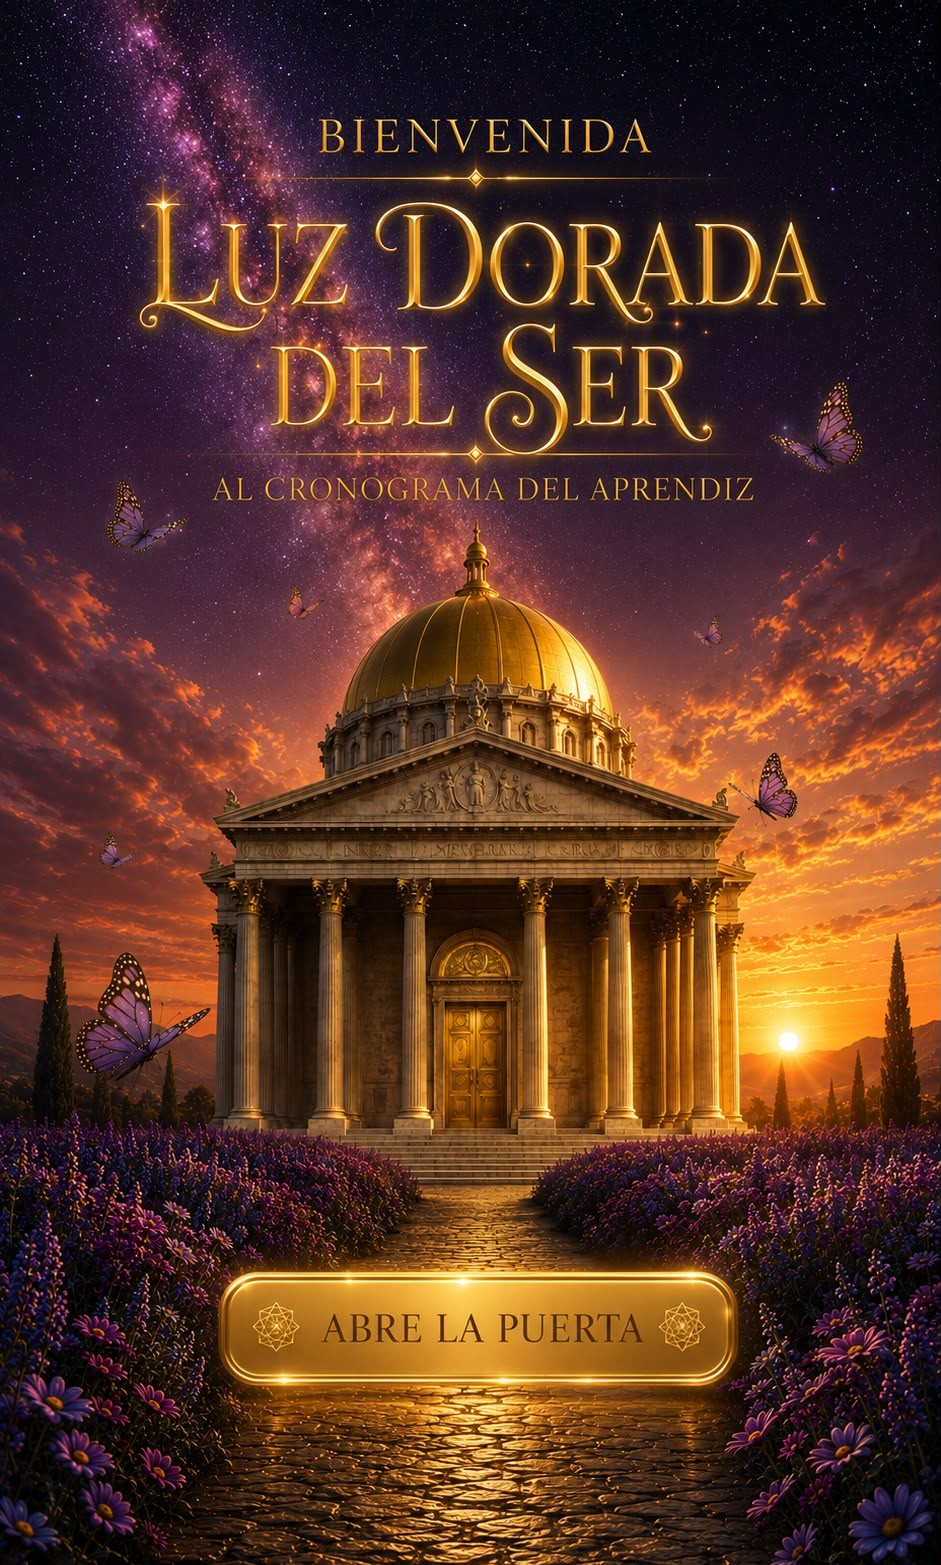
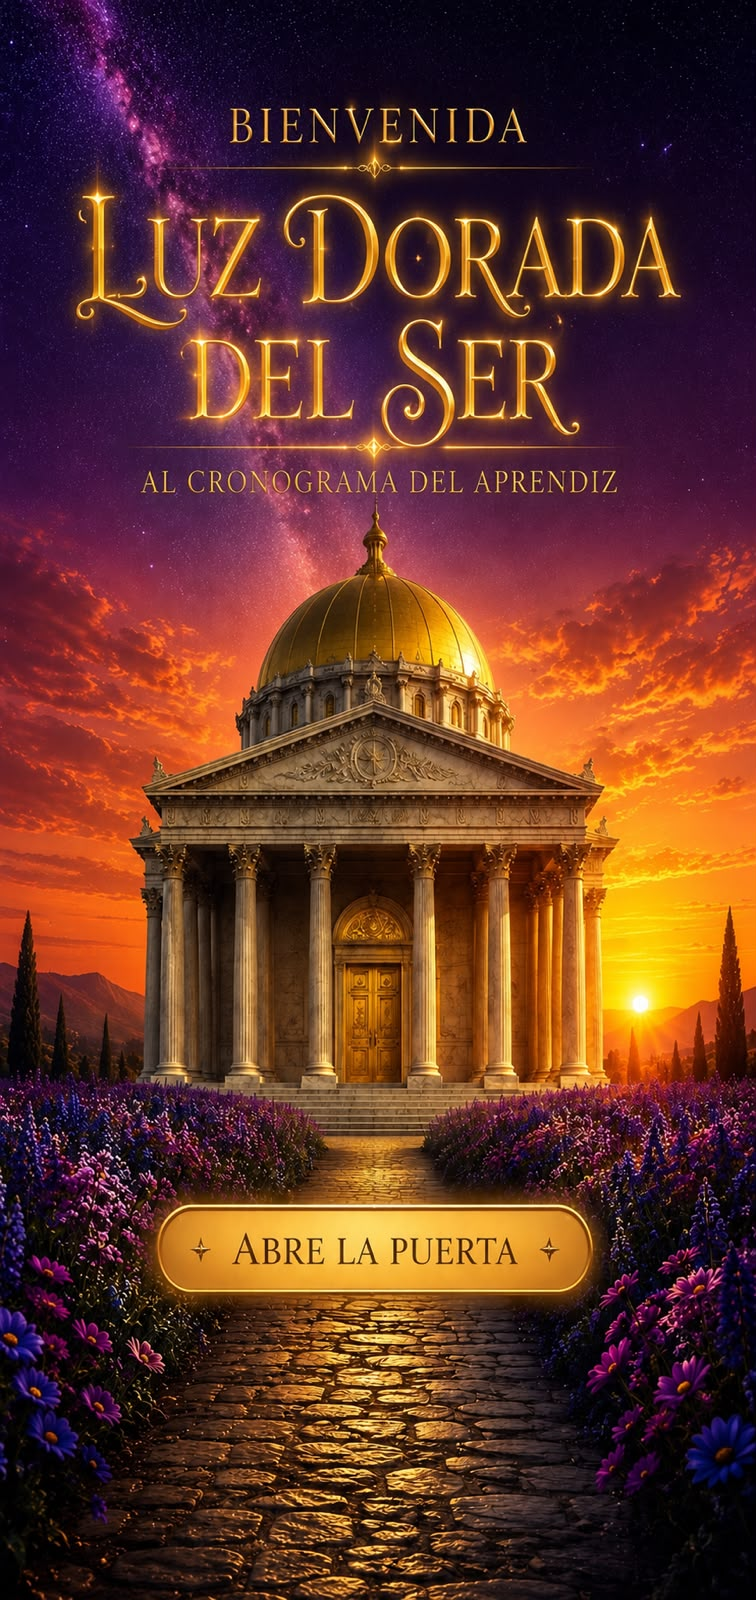
Nuevas portada e interior verticales a pantalla completa
Reemplaza portada.jpg e interior.jpg por versiones en formato de
telefono (9:19.5). Las imagenes ahora se muestran con object-fit:cover
para llenar toda la pantalla sin franjas. Reacomoda las zonas clicables
de los pergaminos (Practicas / Suenos) y el halo del boton. Cache SW -> v5.

diff --git a/index.html b/index.html
@@ -1012,19 +1012,17 @@ ReactDOM.createRoot(document.getElementById('root')).render(<App />);
   .portada-blur {
     position: absolute; inset: -60px; z-index: 0;
     background: url('assets/portada.jpg') center/cover no-repeat;
-    filter: blur(42px) brightness(0.42) saturate(1.15);
-    transform: scale(1.12);
+    filter: blur(28px) brightness(0.72) saturate(1.2);
+    transform: scale(1.14);
   }
   .portada-frame {
-    position: relative; z-index: 2; display: inline-block; line-height: 0;
-    cursor: pointer; outline: none;
-    box-shadow: 0 24px 90px rgba(0, 0, 0, 0.75);
+    position: absolute; inset: 0; z-index: 2; width: 100%; height: 100%;
+    cursor: pointer; outline: none; line-height: 0;
     animation: portadaIn 1.1s ease both;
   }
   .portada-frame:focus-visible { box-shadow: 0 0 0 3px rgba(255, 214, 120, 0.7), 0 24px 90px rgba(0,0,0,0.75); }
   .portada-img {
-    display: block; width: auto; height: auto;
-    max-width: 100vw; max-height: 100vh; max-height: 100dvh;
+    display: block; width: 100%; height: 100%; object-fit: cover; object-position: center;
     user-select: none; -webkit-user-drag: none;
     animation: kenburns 30s ease-in-out infinite alternate;
     transform-origin: center 62%;
@@ -1034,7 +1032,7 @@ ReactDOM.createRoot(document.getElementById('root')).render(<App />);
 
   /* Halo suave que respira sobre el botón "ABRE LA PUERTA" (sin bordes, no se desalinea) */
   .portada-door-glow {
-    position: absolute; left: 50%; top: 90%; transform: translate(-50%, -50%);
+    position: absolute; left: 50%; top: 80.5%; transform: translate(-50%, -50%);
     width: 74%; height: 17%; border-radius: 50%;
     pointer-events: none; z-index: 3; mix-blend-mode: screen;
     background: radial-gradient(ellipse at center, rgba(255, 226, 150, 0.55) 0%, rgba(255, 205, 110, 0.16) 45%, transparent 72%);
@@ -1093,17 +1091,15 @@ ReactDOM.createRoot(document.getElementById('root')).render(<App />);
   .interior-blur {
     position: absolute; inset: -60px; z-index: 0;
     background: url('assets/interior.jpg') center/cover no-repeat;
-    filter: blur(46px) brightness(0.4) saturate(1.05);
-    transform: scale(1.12);
+    filter: blur(30px) brightness(0.66) saturate(1.12);
+    transform: scale(1.14);
   }
   .interior-frame {
-    position: relative; z-index: 2; display: inline-block; line-height: 0;
-    box-shadow: 0 24px 90px rgba(0, 0, 0, 0.75);
+    position: absolute; inset: 0; z-index: 2; width: 100%; height: 100%; line-height: 0;
     animation: portadaIn 1s ease both;
   }
   .interior-img {
-    display: block; width: auto; height: auto;
-    max-width: 100vw; max-height: 100vh; max-height: 100dvh;
+    display: block; width: 100%; height: 100%; object-fit: cover; object-position: center;
     user-select: none; -webkit-user-drag: none;
   }
   /* Zonas clicables sobre cada pergamino */
@@ -1113,8 +1109,8 @@ ReactDOM.createRoot(document.getElementById('root')).render(<App />);
     transition: box-shadow 0.3s ease, background 0.3s ease, transform 0.3s ease;
     animation: scrollHint 3.2s ease-in-out infinite;
   }
-  .zone-practicas { left: 6.5%; top: 42.5%; width: 35%; height: 43%; }
-  .zone-suenos { left: 58.5%; top: 42.5%; width: 35%; height: 43%; }
+  .zone-practicas { left: 5.5%; top: 44%; width: 38%; height: 37%; }
+  .zone-suenos { left: 57%; top: 44%; width: 38%; height: 37%; }
   .scroll-zone:hover, .scroll-zone:focus-visible {
     background: radial-gradient(ellipse at center, rgba(255, 224, 150, 0.20), transparent 70%);
     box-shadow: 0 0 46px 8px rgba(255, 212, 120, 0.4);

diff --git a/sw.js b/sw.js
@@ -1,5 +1,5 @@
 // Service Worker — guarda la app en el dispositivo para que funcione sin internet.
-const CACHE = 'luz-dorada-v4';
+const CACHE = 'luz-dorada-v5';
 const ASSETS = [
   'index.html',
   'manifest.json',
